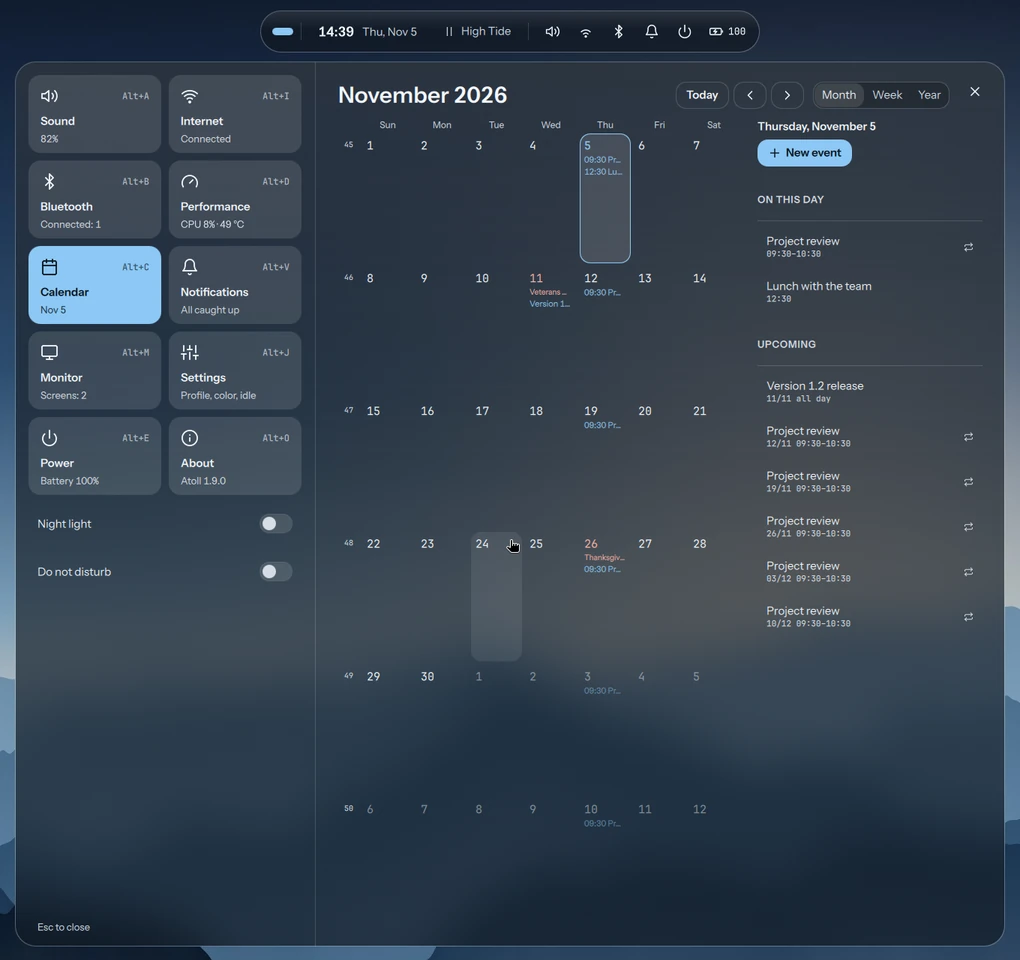
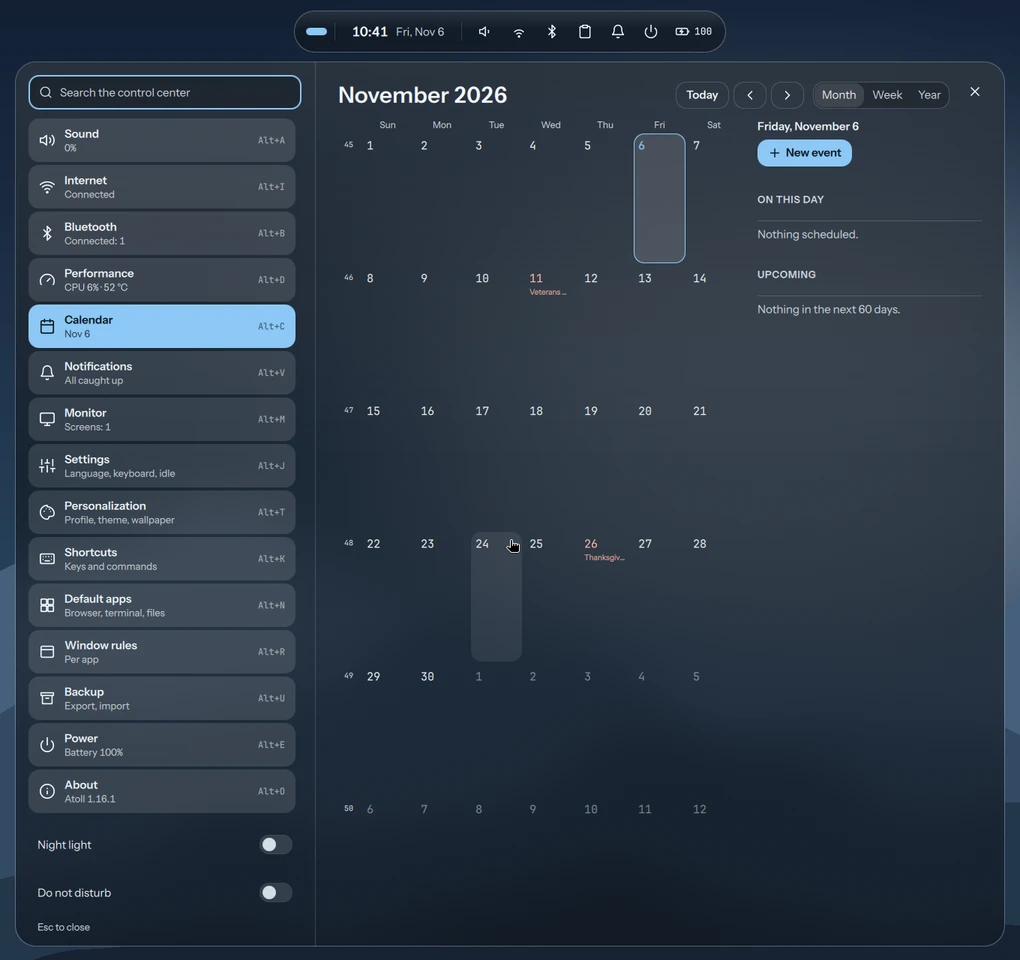
fix: blur the clipboard panel, and refresh every screenshot

diff --git a/CHANGELOG.md b/CHANGELOG.md
@@ -6,6 +6,16 @@ All notable changes to this project are documented here. The format follows
 
 ## [Unreleased]
 
+## [1.16.2] - 2026-11-06
+
+### Fixed
+
+- The clipboard panel is blurred like the other panels; it looked too transparent over windows.
+
+### Changed
+
+- New screenshots of every screen in the README.
+
 ## [1.16.1] - 2026-11-06
 
 ### Fixed
@@ -272,7 +282,8 @@ All notable changes to this project are documented here. The format follows
 - Lock screen, idle timers, night light and monitor brightness.
 - Installer, uninstaller, automated tests and an original default wallpaper.
 
-[Unreleased]: https://github.com/brayanspagnol/atoll/compare/v1.16.1...HEAD
+[Unreleased]: https://github.com/brayanspagnol/atoll/compare/v1.16.2...HEAD
+[1.16.2]: https://github.com/brayanspagnol/atoll/compare/v1.16.1...v1.16.2
 [1.16.1]: https://github.com/brayanspagnol/atoll/compare/v1.16.0...v1.16.1
 [1.16.0]: https://github.com/brayanspagnol/atoll/compare/v1.15.1...v1.16.0
 [1.15.1]: https://github.com/brayanspagnol/atoll/compare/v1.15.0...v1.15.1

diff --git a/README.md b/README.md
@@ -73,9 +73,17 @@ Screenshots use demo data.
 |---|---|
 | ![Monitor](docs/screenshots/monitor.webp) | ![About](docs/screenshots/about.webp) |
 
-| Shortcuts | Light theme |
+| Personalization | Light theme |
 |---|---|
-| ![Shortcuts](docs/screenshots/shortcuts.webp) | ![Light theme](docs/screenshots/light.webp) |
+| ![Personalization](docs/screenshots/personalization.webp) | ![Light theme](docs/screenshots/light.webp) |
+
+| Shortcuts | Default apps |
+|---|---|
+| ![Shortcuts](docs/screenshots/shortcuts.webp) | ![Default apps](docs/screenshots/apps.webp) |
+
+| Window rules | Backup |
+|---|---|
+| ![Window rules](docs/screenshots/rules.webp) | ![Backup](docs/screenshots/backup.webp) |
 
 | Settings | Power |
 |---|---|
